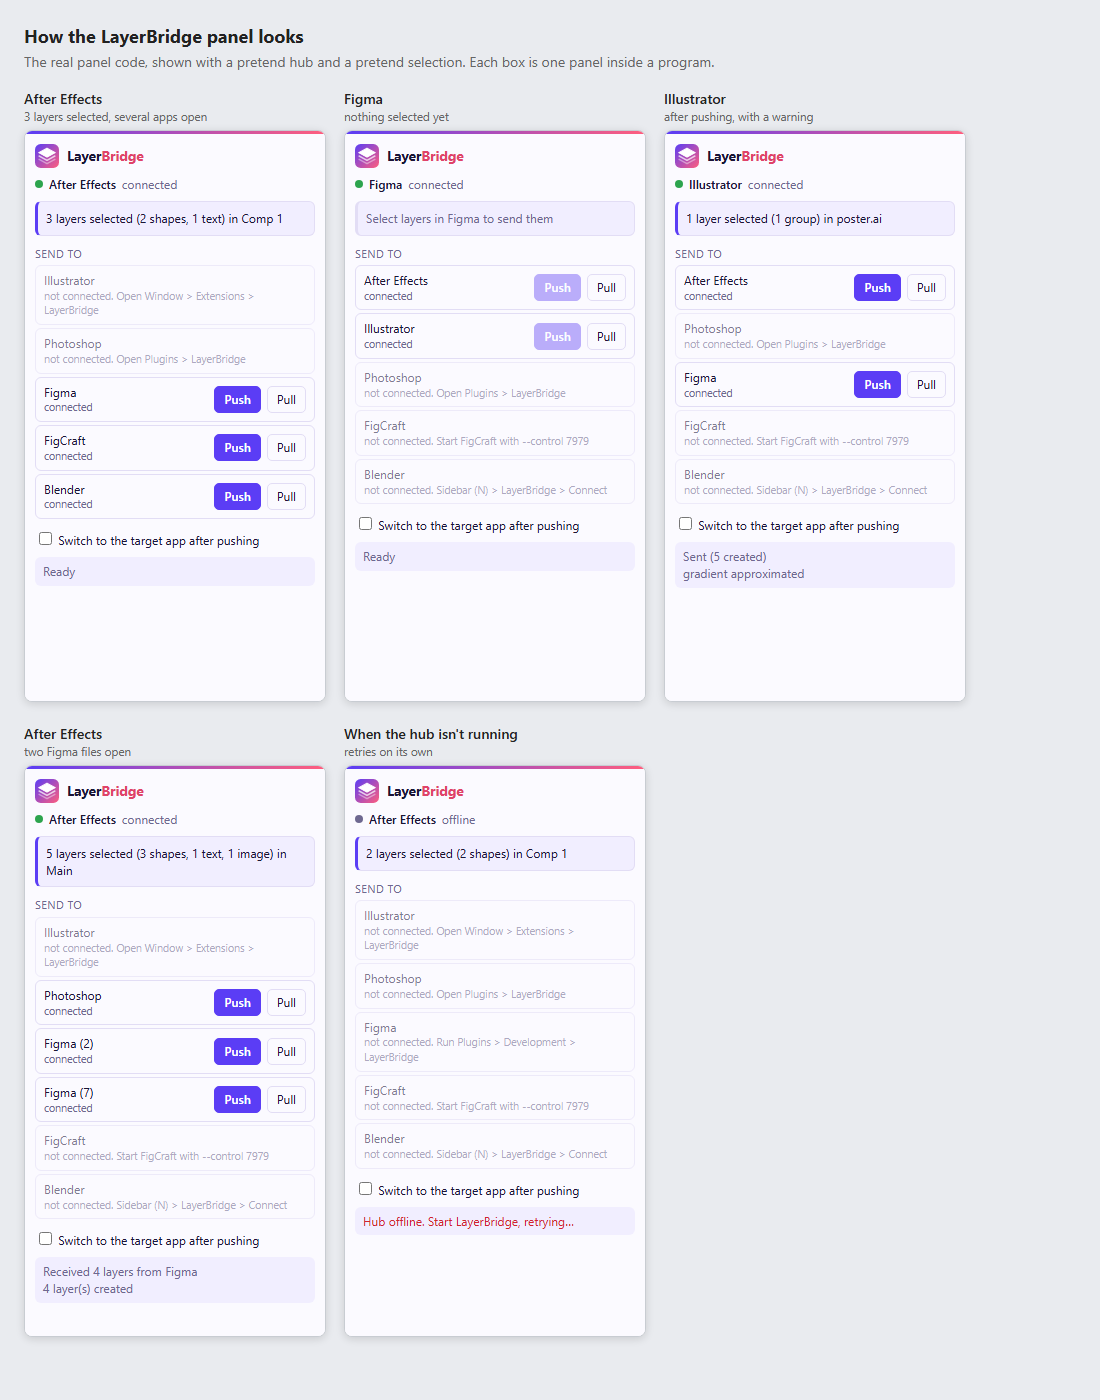
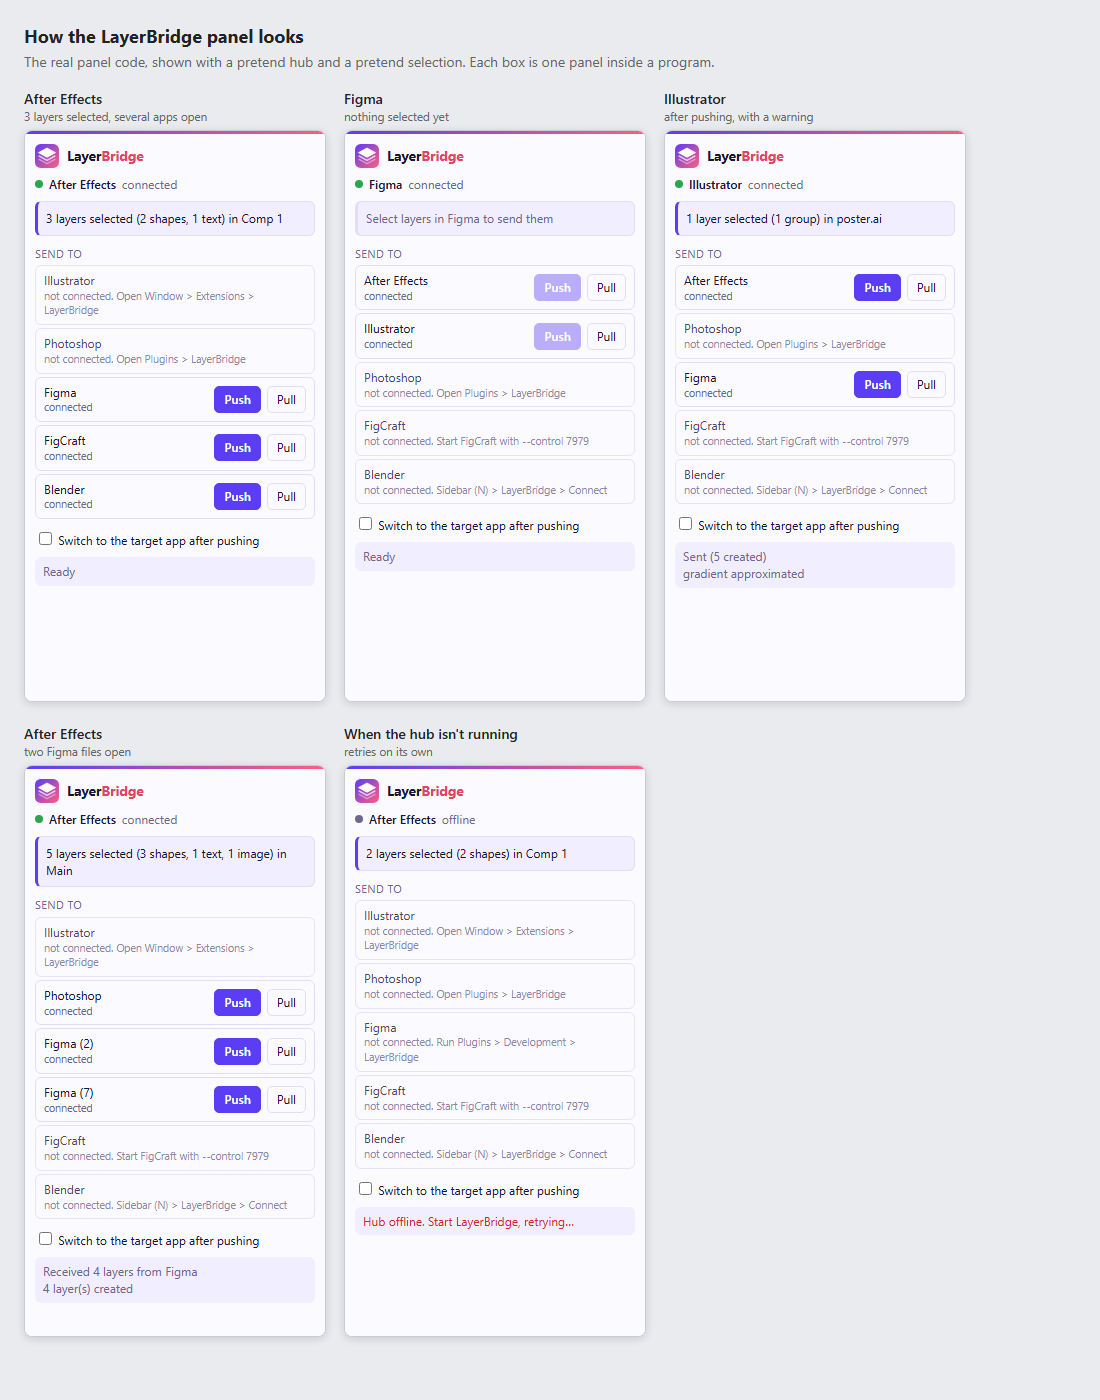
Dark mode: theme override, dark README screenshot, more readable greyed rows
Panels follow the host's light/dark theme and can be forced with data-theme.
The preview takes ?theme=dark|light. README shows the dark picture to dark-mode readers.
Greyed-out "not connected" rows are less dim so their how-to-connect hints stay readable.

diff --git a/plugins/adobe-cep/panel-ui.js b/plugins/adobe-cep/panel-ui.js
@@ -38,9 +38,12 @@
 
   // Brand palette: see brand/brand.mjs. Buttons stay solid violet: white text on coral is too low contrast.
   var MARK = "<svg xmlns=\"http://www.w3.org/2000/svg\" viewBox=\"0 0 64 64\" width=\"24\" height=\"24\">\n  <defs><linearGradient id=\"lbpanel\" x1=\"0\" y1=\"0\" x2=\"1\" y2=\"1\">\n    <stop offset=\"0\" stop-color=\"#5B3DF5\"/><stop offset=\"1\" stop-color=\"#FF5E7E\"/></linearGradient></defs>\n  <rect width=\"64\" height=\"64\" rx=\"15\" fill=\"url(#lbpanel)\"/>\n  <path d=\"M32 11L54 23L32 35L10 23Z\" fill=\"#fff\" stroke=\"#fff\" stroke-width=\"3\" stroke-linejoin=\"round\"/>\n  <path d=\"M11 32L32 43.5L53 32\" fill=\"none\" stroke=\"#fff\" stroke-width=\"4\" stroke-linecap=\"round\" stroke-linejoin=\"round\" opacity=\".72\"/>\n  <path d=\"M11 41L32 52.5L53 41\" fill=\"none\" stroke=\"#fff\" stroke-width=\"4\" stroke-linecap=\"round\" stroke-linejoin=\"round\" opacity=\".42\"/>\n</svg>";
+  var DARK = "--bg:#14121F;--fg:#ECE9FA;--mut:#A39FC0;--line:#3A3455;--card:#221E33;--acc:#6A4DFF;--cor:#FF6F8D;--ok:#3fb950;--err:#ff6b6b";
   var CSS =
     ":root{color-scheme:light dark;--bg:#FBFAFF;--fg:#1B1535;--mut:#6E6890;--line:#E2DDF5;--card:#F1EEFF;--acc:#5B3DF5;--cor:#E0436A;--ok:#2da44e;--err:#d1242f}" +
-    "@media (prefers-color-scheme:dark){:root{--bg:#14121F;--fg:#ECE9FA;--mut:#A39FC0;--line:#3A3455;--card:#221E33;--acc:#6A4DFF;--cor:#FF6F8D;--ok:#3fb950;--err:#ff6b6b}}" +
+    "@media (prefers-color-scheme:dark){:root:not([data-theme=light]){" + DARK + "}}" +
+    ":root[data-theme=dark]{color-scheme:dark;" + DARK + "}" +
+    ":root[data-theme=light]{color-scheme:light}" +
     "body{margin:0;background:var(--bg);color:var(--fg);font:12px/1.4 system-ui,-apple-system,Segoe UI,sans-serif}" +
     "#lb-root{padding:0 10px 10px}.lb-top{height:3px;margin:0 -10px 10px;background:linear-gradient(90deg,#5B3DF5,#FF5E7E)}" +
     ".lb-brandrow{display:flex;align-items:center;gap:8px}.lb-mark{width:24px;height:24px;display:inline-block}.lb-mark svg{width:24px;height:24px;display:block}" +
@@ -50,7 +53,7 @@
     ".lb-sel{margin:8px 0;padding:8px;border-radius:6px;background:var(--card);border:1px solid var(--line);border-left:3px solid var(--acc)}.lb-sel.empty{color:var(--mut);border-left-color:var(--line)}" +
     ".lb-h{margin:10px 0 4px;color:var(--mut);font-size:11px;text-transform:uppercase;letter-spacing:.04em}" +
     ".lb-row{display:flex;align-items:center;gap:6px;padding:6px 8px;margin:3px 0;border:1px solid var(--line);border-radius:6px}" +
-    ".lb-row .n{flex:1;min-width:0}.lb-row small{display:block;color:var(--mut);font-size:10.5px}.lb-row.off{opacity:.55}" +
+    ".lb-row .n{flex:1;min-width:0}.lb-row small{display:block;color:var(--mut);font-size:10.5px}.lb-row.off{opacity:.78}" +
     ".lb-row button{font:inherit;padding:4px 9px;border-radius:5px;border:1px solid var(--line);background:var(--bg);color:var(--fg);cursor:pointer}" +
     ".lb-row button.push{background:var(--acc);border-color:var(--acc);color:#fff;font-weight:600}" +
     ".lb-row button:disabled{opacity:.4;cursor:default}" +

diff --git a/plugins/figma/ui.html b/plugins/figma/ui.html
@@ -42,9 +42,12 @@
 
   // Brand palette: see brand/brand.mjs. Buttons stay solid violet: white text on coral is too low contrast.
   var MARK = "<svg xmlns=\"http://www.w3.org/2000/svg\" viewBox=\"0 0 64 64\" width=\"24\" height=\"24\">\n  <defs><linearGradient id=\"lbpanel\" x1=\"0\" y1=\"0\" x2=\"1\" y2=\"1\">\n    <stop offset=\"0\" stop-color=\"#5B3DF5\"/><stop offset=\"1\" stop-color=\"#FF5E7E\"/></linearGradient></defs>\n  <rect width=\"64\" height=\"64\" rx=\"15\" fill=\"url(#lbpanel)\"/>\n  <path d=\"M32 11L54 23L32 35L10 23Z\" fill=\"#fff\" stroke=\"#fff\" stroke-width=\"3\" stroke-linejoin=\"round\"/>\n  <path d=\"M11 32L32 43.5L53 32\" fill=\"none\" stroke=\"#fff\" stroke-width=\"4\" stroke-linecap=\"round\" stroke-linejoin=\"round\" opacity=\".72\"/>\n  <path d=\"M11 41L32 52.5L53 41\" fill=\"none\" stroke=\"#fff\" stroke-width=\"4\" stroke-linecap=\"round\" stroke-linejoin=\"round\" opacity=\".42\"/>\n</svg>";
+  var DARK = "--bg:#14121F;--fg:#ECE9FA;--mut:#A39FC0;--line:#3A3455;--card:#221E33;--acc:#6A4DFF;--cor:#FF6F8D;--ok:#3fb950;--err:#ff6b6b";
   var CSS =
     ":root{color-scheme:light dark;--bg:#FBFAFF;--fg:#1B1535;--mut:#6E6890;--line:#E2DDF5;--card:#F1EEFF;--acc:#5B3DF5;--cor:#E0436A;--ok:#2da44e;--err:#d1242f}" +
-    "@media (prefers-color-scheme:dark){:root{--bg:#14121F;--fg:#ECE9FA;--mut:#A39FC0;--line:#3A3455;--card:#221E33;--acc:#6A4DFF;--cor:#FF6F8D;--ok:#3fb950;--err:#ff6b6b}}" +
+    "@media (prefers-color-scheme:dark){:root:not([data-theme=light]){" + DARK + "}}" +
+    ":root[data-theme=dark]{color-scheme:dark;" + DARK + "}" +
+    ":root[data-theme=light]{color-scheme:light}" +
     "body{margin:0;background:var(--bg);color:var(--fg);font:12px/1.4 system-ui,-apple-system,Segoe UI,sans-serif}" +
     "#lb-root{padding:0 10px 10px}.lb-top{height:3px;margin:0 -10px 10px;background:linear-gradient(90deg,#5B3DF5,#FF5E7E)}" +
     ".lb-brandrow{display:flex;align-items:center;gap:8px}.lb-mark{width:24px;height:24px;display:inline-block}.lb-mark svg{width:24px;height:24px;display:block}" +
@@ -54,7 +57,7 @@
     ".lb-sel{margin:8px 0;padding:8px;border-radius:6px;background:var(--card);border:1px solid var(--line);border-left:3px solid var(--acc)}.lb-sel.empty{color:var(--mut);border-left-color:var(--line)}" +
     ".lb-h{margin:10px 0 4px;color:var(--mut);font-size:11px;text-transform:uppercase;letter-spacing:.04em}" +
     ".lb-row{display:flex;align-items:center;gap:6px;padding:6px 8px;margin:3px 0;border:1px solid var(--line);border-radius:6px}" +
-    ".lb-row .n{flex:1;min-width:0}.lb-row small{display:block;color:var(--mut);font-size:10.5px}.lb-row.off{opacity:.55}" +
+    ".lb-row .n{flex:1;min-width:0}.lb-row small{display:block;color:var(--mut);font-size:10.5px}.lb-row.off{opacity:.78}" +
     ".lb-row button{font:inherit;padding:4px 9px;border-radius:5px;border:1px solid var(--line);background:var(--bg);color:var(--fg);cursor:pointer}" +
     ".lb-row button.push{background:var(--acc);border-color:var(--acc);color:#fff;font-weight:600}" +
     ".lb-row button:disabled{opacity:.4;cursor:default}" +

diff --git a/plugins/photoshop-uxp/panel-ui.js b/plugins/photoshop-uxp/panel-ui.js
@@ -38,9 +38,12 @@
 
   // Brand palette: see brand/brand.mjs. Buttons stay solid violet: white text on coral is too low contrast.
   var MARK = "<svg xmlns=\"http://www.w3.org/2000/svg\" viewBox=\"0 0 64 64\" width=\"24\" height=\"24\">\n  <defs><linearGradient id=\"lbpanel\" x1=\"0\" y1=\"0\" x2=\"1\" y2=\"1\">\n    <stop offset=\"0\" stop-color=\"#5B3DF5\"/><stop offset=\"1\" stop-color=\"#FF5E7E\"/></linearGradient></defs>\n  <rect width=\"64\" height=\"64\" rx=\"15\" fill=\"url(#lbpanel)\"/>\n  <path d=\"M32 11L54 23L32 35L10 23Z\" fill=\"#fff\" stroke=\"#fff\" stroke-width=\"3\" stroke-linejoin=\"round\"/>\n  <path d=\"M11 32L32 43.5L53 32\" fill=\"none\" stroke=\"#fff\" stroke-width=\"4\" stroke-linecap=\"round\" stroke-linejoin=\"round\" opacity=\".72\"/>\n  <path d=\"M11 41L32 52.5L53 41\" fill=\"none\" stroke=\"#fff\" stroke-width=\"4\" stroke-linecap=\"round\" stroke-linejoin=\"round\" opacity=\".42\"/>\n</svg>";
+  var DARK = "--bg:#14121F;--fg:#ECE9FA;--mut:#A39FC0;--line:#3A3455;--card:#221E33;--acc:#6A4DFF;--cor:#FF6F8D;--ok:#3fb950;--err:#ff6b6b";
   var CSS =
     ":root{color-scheme:light dark;--bg:#FBFAFF;--fg:#1B1535;--mut:#6E6890;--line:#E2DDF5;--card:#F1EEFF;--acc:#5B3DF5;--cor:#E0436A;--ok:#2da44e;--err:#d1242f}" +
-    "@media (prefers-color-scheme:dark){:root{--bg:#14121F;--fg:#ECE9FA;--mut:#A39FC0;--line:#3A3455;--card:#221E33;--acc:#6A4DFF;--cor:#FF6F8D;--ok:#3fb950;--err:#ff6b6b}}" +
+    "@media (prefers-color-scheme:dark){:root:not([data-theme=light]){" + DARK + "}}" +
+    ":root[data-theme=dark]{color-scheme:dark;" + DARK + "}" +
+    ":root[data-theme=light]{color-scheme:light}" +
     "body{margin:0;background:var(--bg);color:var(--fg);font:12px/1.4 system-ui,-apple-system,Segoe UI,sans-serif}" +
     "#lb-root{padding:0 10px 10px}.lb-top{height:3px;margin:0 -10px 10px;background:linear-gradient(90deg,#5B3DF5,#FF5E7E)}" +
     ".lb-brandrow{display:flex;align-items:center;gap:8px}.lb-mark{width:24px;height:24px;display:inline-block}.lb-mark svg{width:24px;height:24px;display:block}" +
@@ -50,7 +53,7 @@
     ".lb-sel{margin:8px 0;padding:8px;border-radius:6px;background:var(--card);border:1px solid var(--line);border-left:3px solid var(--acc)}.lb-sel.empty{color:var(--mut);border-left-color:var(--line)}" +
     ".lb-h{margin:10px 0 4px;color:var(--mut);font-size:11px;text-transform:uppercase;letter-spacing:.04em}" +
     ".lb-row{display:flex;align-items:center;gap:6px;padding:6px 8px;margin:3px 0;border:1px solid var(--line);border-radius:6px}" +
-    ".lb-row .n{flex:1;min-width:0}.lb-row small{display:block;color:var(--mut);font-size:10.5px}.lb-row.off{opacity:.55}" +
+    ".lb-row .n{flex:1;min-width:0}.lb-row small{display:block;color:var(--mut);font-size:10.5px}.lb-row.off{opacity:.78}" +
     ".lb-row button{font:inherit;padding:4px 9px;border-radius:5px;border:1px solid var(--line);background:var(--bg);color:var(--fg);cursor:pointer}" +
     ".lb-row button.push{background:var(--acc);border-color:var(--acc);color:#fff;font-weight:600}" +
     ".lb-row button:disabled{opacity:.4;cursor:default}" +

diff --git a/plugins/shared/panel-ui.js b/plugins/shared/panel-ui.js
@@ -38,9 +38,12 @@
 
   // Brand palette: see brand/brand.mjs. Buttons stay solid violet: white text on coral is too low contrast.
   var MARK = "__LB_MARK_SVG__";
+  var DARK = "--bg:#14121F;--fg:#ECE9FA;--mut:#A39FC0;--line:#3A3455;--card:#221E33;--acc:#6A4DFF;--cor:#FF6F8D;--ok:#3fb950;--err:#ff6b6b";
   var CSS =
     ":root{color-scheme:light dark;--bg:#FBFAFF;--fg:#1B1535;--mut:#6E6890;--line:#E2DDF5;--card:#F1EEFF;--acc:#5B3DF5;--cor:#E0436A;--ok:#2da44e;--err:#d1242f}" +
-    "@media (prefers-color-scheme:dark){:root{--bg:#14121F;--fg:#ECE9FA;--mut:#A39FC0;--line:#3A3455;--card:#221E33;--acc:#6A4DFF;--cor:#FF6F8D;--ok:#3fb950;--err:#ff6b6b}}" +
+    "@media (prefers-color-scheme:dark){:root:not([data-theme=light]){" + DARK + "}}" +
+    ":root[data-theme=dark]{color-scheme:dark;" + DARK + "}" +
+    ":root[data-theme=light]{color-scheme:light}" +
     "body{margin:0;background:var(--bg);color:var(--fg);font:12px/1.4 system-ui,-apple-system,Segoe UI,sans-serif}" +
     "#lb-root{padding:0 10px 10px}.lb-top{height:3px;margin:0 -10px 10px;background:linear-gradient(90deg,#5B3DF5,#FF5E7E)}" +
     ".lb-brandrow{display:flex;align-items:center;gap:8px}.lb-mark{width:24px;height:24px;display:inline-block}.lb-mark svg{width:24px;height:24px;display:block}" +
@@ -50,7 +53,7 @@
     ".lb-sel{margin:8px 0;padding:8px;border-radius:6px;background:var(--card);border:1px solid var(--line);border-left:3px solid var(--acc)}.lb-sel.empty{color:var(--mut);border-left-color:var(--line)}" +
     ".lb-h{margin:10px 0 4px;color:var(--mut);font-size:11px;text-transform:uppercase;letter-spacing:.04em}" +
     ".lb-row{display:flex;align-items:center;gap:6px;padding:6px 8px;margin:3px 0;border:1px solid var(--line);border-radius:6px}" +
-    ".lb-row .n{flex:1;min-width:0}.lb-row small{display:block;color:var(--mut);font-size:10.5px}.lb-row.off{opacity:.55}" +
+    ".lb-row .n{flex:1;min-width:0}.lb-row small{display:block;color:var(--mut);font-size:10.5px}.lb-row.off{opacity:.78}" +
     ".lb-row button{font:inherit;padding:4px 9px;border-radius:5px;border:1px solid var(--line);background:var(--bg);color:var(--fg);cursor:pointer}" +
     ".lb-row button.push{background:var(--acc);border-color:var(--acc);color:#fff;font-weight:600}" +
     ".lb-row button:disabled{opacity:.4;cursor:default}" +

diff --git a/preview/index.html b/preview/index.html
@@ -3,6 +3,14 @@
 <title>LayerBridge interface preview</title>
 <style>
   body { margin: 0; padding: 24px; background: #e9ebef; font: 14px system-ui, sans-serif; color: #222; }
+  @media (prefers-color-scheme: dark) {
+    :root:not([data-theme=light]) body { background: #0C0B14; color: #ECE9FA }
+    :root:not([data-theme=light]) p.sub, :root:not([data-theme=light]) figcaption small { color: #A39FC0 }
+    :root:not([data-theme=light]) iframe { border-color: #2E2945; box-shadow: 0 2px 10px #0008 }
+  }
+  :root[data-theme=dark] body { background: #0C0B14; color: #ECE9FA }
+  :root[data-theme=dark] p.sub, :root[data-theme=dark] figcaption small { color: #A39FC0 }
+  :root[data-theme=dark] iframe { border-color: #2E2945; box-shadow: 0 2px 10px #0008 }
   h1 { font-size: 18px; margin: 0 0 4px } p.sub { margin: 0 0 18px; color: #666 }
   .wall { display: flex; gap: 18px; flex-wrap: wrap; align-items: flex-start }
   figure { margin: 0 } figcaption { margin: 0 0 6px; font-weight: 600 } figcaption small { display: block; font-weight: 400; color: #666 }
@@ -17,3 +25,11 @@
   <figure><figcaption>After Effects<small>two Figma files open</small></figcaption><iframe src="panel.html?state=two"></iframe></figure>
   <figure><figcaption>When the hub isn't running<small>retries on its own</small></figcaption><iframe src="panel.html?state=offline"></iframe></figure>
 </div>
+<script>
+  // ?theme=dark or ?theme=light forces that theme in every panel; otherwise they follow the system.
+  const theme = new URLSearchParams(location.search).get("theme");
+  if (theme) {
+    document.documentElement.setAttribute("data-theme", theme);
+    document.querySelectorAll("iframe").forEach((f) => (f.src += "&theme=" + theme));
+  }
+</script>

diff --git a/preview/panel.html b/preview/panel.html
@@ -5,7 +5,9 @@
 <script src="../plugins/adobe-cep/panel-ui.js"></script>
 <script>
   // Preview only: runs the REAL panel UI against a pretend hub and a pretend selection.
-  const state = new URLSearchParams(location.search).get("state") || "ae";
+  const q = new URLSearchParams(location.search);
+  const state = q.get("state") || "ae";
+  if (q.get("theme")) document.documentElement.setAttribute("data-theme", q.get("theme"));
 
   const SCENES = {
     ae: {

diff --git a/README.md b/README.md
@@ -19,7 +19,10 @@ run inside** After Effects, Illustrator, Photoshop or Figma, so expect fixes on 
 
 ## What it looks like
 
-![The LayerBridge panel in different situations: After Effects with three layers selected, Figma with nothing selected, Illustrator after a push, two Figma files open, and the hub offline](docs/interface.png)
+<picture>
+  <source media="(prefers-color-scheme: dark)" srcset="docs/interface-dark.png">
+  <img alt="The LayerBridge panel in different situations: After Effects with three layers selected, Figma with nothing selected, Illustrator after a push, two Figma files open, and the hub offline" src="docs/interface.png">
+</picture>
 
 Every panel shows what you have selected, then lists the other apps. Open apps get **Push** and **Pull**
 buttons (Push is greyed out until something is selected); apps that aren't open are greyed out with how
@@ -27,7 +30,8 @@ to connect them.
 
 This picture is the real panel code running with a pretend hub and a pretend selection. To see it
 yourself, open `preview/index.html` in a browser. The real panels sit inside each program, so window
-frames and fonts differ, and the light/dark colours follow the program's theme.
+frames and fonts differ. The panels follow the program's light or dark theme (this page shows the matching
+picture for yours), and `preview/index.html?theme=dark` forces dark mode.
 
 ## How it works
 
